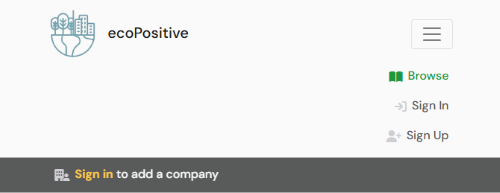
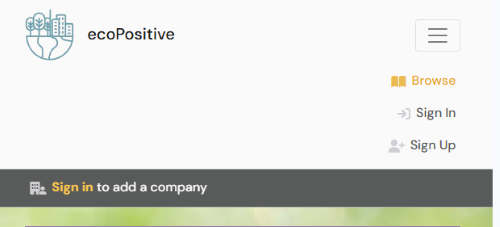
Replace some README images of navbar and add Lighthouse scores to validation section

diff --git a/README.md b/README.md
@@ -62,12 +62,12 @@ This project leverages a modular approach by creating and reusing various React 
 
 ![ecoPositive favicon in use](docs/readme-images/favicon.png)
 
-***Nav Bar (components/NavBar.js)***
+***Navigation Bar (components/NavBar.js)***
 
 - Navigation bar with clear brand heading and logo for ecoPositive.
 - Includes links for easy navigation around the site. Only links that are accordante with user role and authentication are displayed for better user experience.
 - Fully responsive with navigation links collapsable into a burger 'Menu' icon on smaller deviced to keep layout clean and uncluttered.
-- Links are grey when not in use and coloured green when 'active' to help users identify where they currently are in the site.
+- Links are grey when not in use and coloured yellow when 'active' to help users identify where they currently are in the site.
 - Usage:
     - Used across the entire application at the top level
 
@@ -572,6 +572,11 @@ In addition to the above general authentication levels:
 - The deployed site was passed through [W3C HTML validation](https://validator.w3.org/#validate_by_input) with no errors. Some warning were raised due to the trailing slash used in JSX, so I did not try to resolve these. All other standard HTML code passed with no errors.
 
 ![Screenshot of HTML validation](docs/readme-images/html-validation.png)
+
+- The deployed site was inspected for pageload, SEO and performance using the Lighthouse festure in Google DevTools and received good scores when assessed using an  incognito browser. This indicated a high standard of accessibility, Performance, Best Practices and SEO.
+
+![Screenshot of Lighthouse Validation scores](docs/readme-images/lighthouse-validation.png)
+
 
 - The [Wave compatibility site](https://wave.webaim.org/) didn't seem to be able to view the site to assess it, but accessible design was present throughout the application with alt text and aria code used wherever applicable, and good contrast used for all text against the background. Clear intention and messaging for all buttons and calls to action were used to ensure that the site is easy to navigate and user friendly.
 
